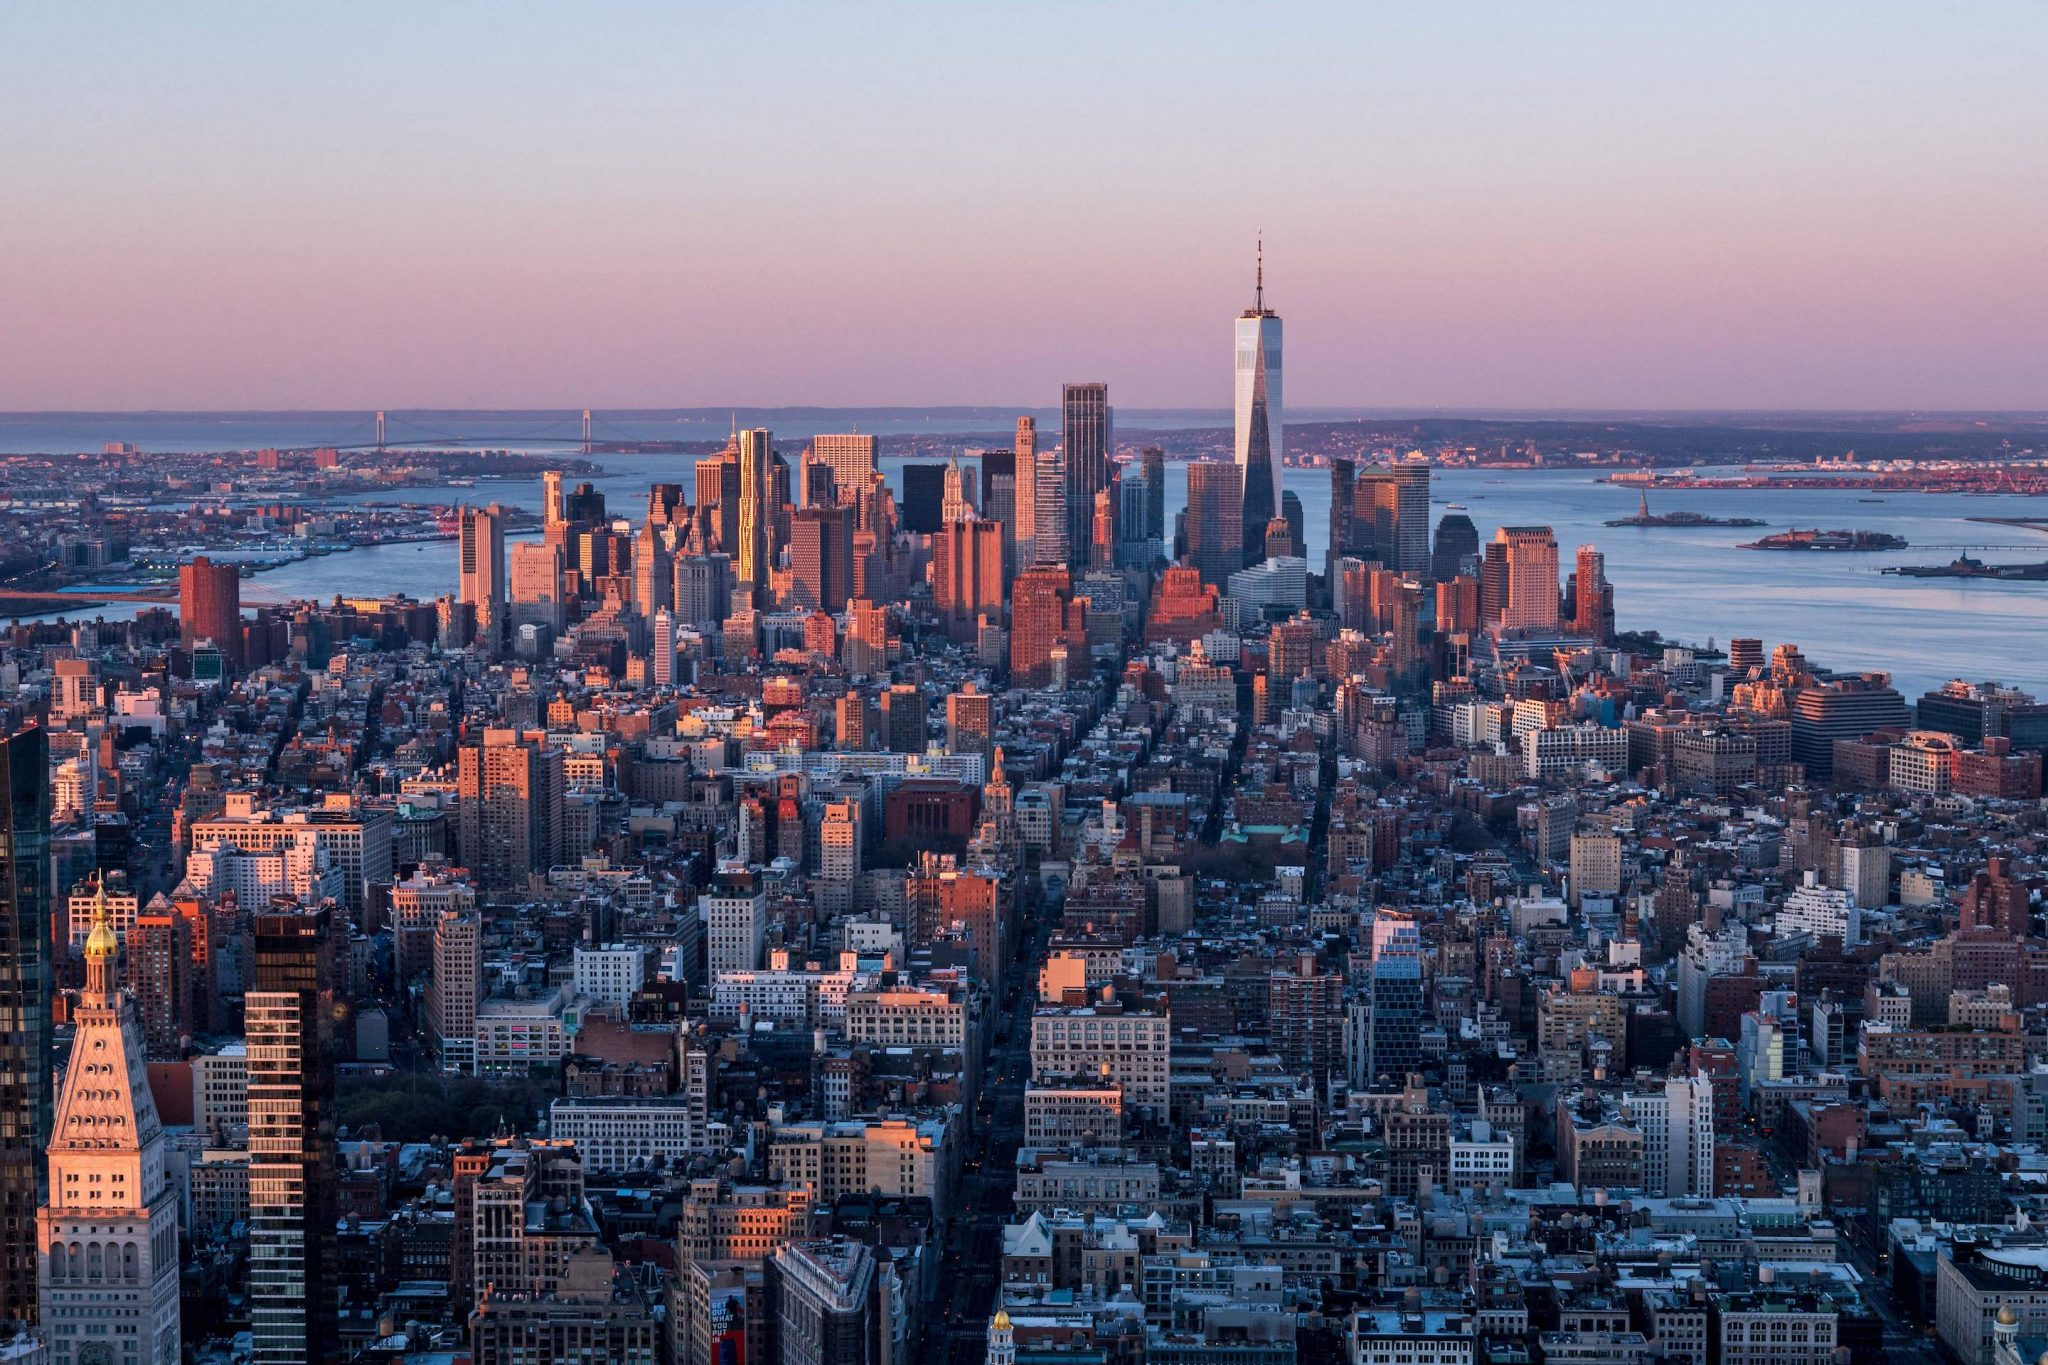
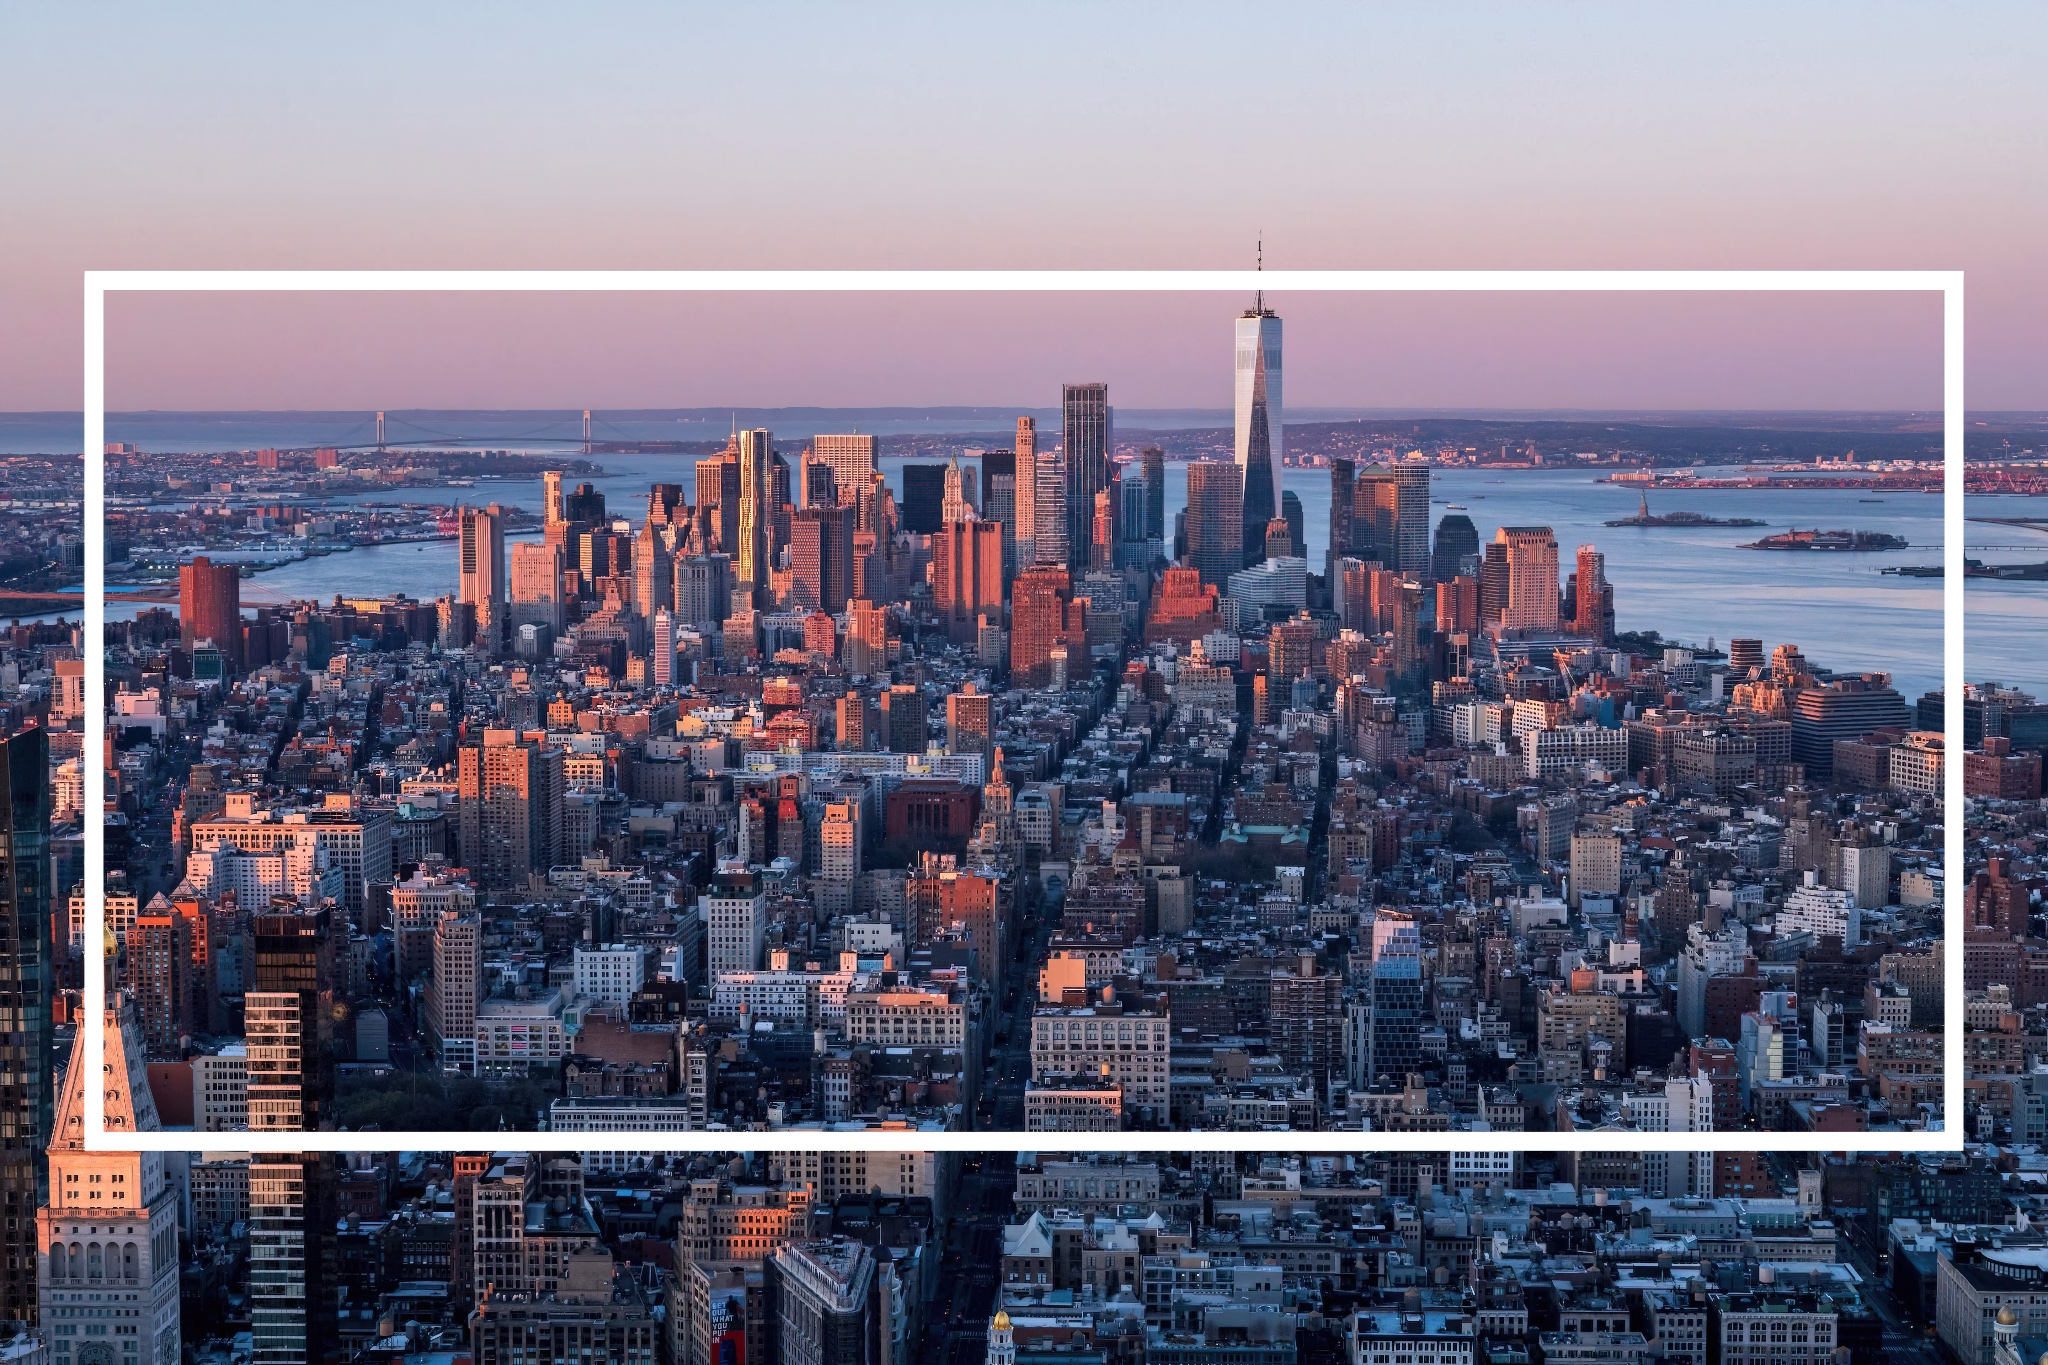
Optimize hero image resolution and sizing

diff --git a/app/(marketing)/sponsors/page.tsx b/app/(marketing)/sponsors/page.tsx
@@ -117,13 +117,28 @@ export default async function SponsorsPage() {
                       <span className="sr-only">Feature</span>
                     </th>
                     <th className="border-l border-accent/20 bg-accent/10 px-4 py-6 text-center" scope="col">
-                      <span className="block text-lg font-black text-accent">◆ Platinum</span>
+                      <span className="inline-flex items-center justify-center gap-1.5 text-lg font-black text-accent">
+                        <svg className="h-4 w-4 fill-current shrink-0" viewBox="0 0 24 24" aria-hidden="true">
+                          <path d="M12 2L2 12l10 10 10-10L12 2z" />
+                        </svg>
+                        Platinum
+                      </span>
                     </th>
                     <th className="px-4 py-6 text-center" scope="col">
-                      <span className="block text-lg font-black text-warning">● Gold</span>
+                      <span className="inline-flex items-center justify-center gap-1.5 text-lg font-black text-warning">
+                        <svg className="h-3.5 w-3.5 fill-current shrink-0" viewBox="0 0 24 24" aria-hidden="true">
+                          <circle cx="12" cy="12" r="10" />
+                        </svg>
+                        Gold
+                      </span>
                     </th>
                     <th className="px-4 py-6 text-center" scope="col">
-                      <span className="block text-lg font-black text-foreground-muted">▲ Community</span>
+                      <span className="inline-flex items-center justify-center gap-1.5 text-lg font-black text-foreground-muted">
+                        <svg className="h-4 w-4 fill-current shrink-0" viewBox="0 0 24 24" aria-hidden="true">
+                          <path d="M12 3L2 21h20L12 3z" />
+                        </svg>
+                        Community
+                      </span>
                     </th>
                   </tr>
                 </thead>

diff --git a/app/components/sections/Hero.tsx b/app/components/sections/Hero.tsx
@@ -27,7 +27,7 @@ export default function Hero({
   backgroundImage,
   size = 'medium',
   primaryCTA,
-  parallax = true,
+  parallax = false,
 }: HeroProps) {
   const isLarge = size === 'large';
   const prefersReducedMotion = usePrefersReducedMotion();
@@ -97,8 +97,7 @@ export default function Hero({
           alt=""
           fill
           priority
-          quality={75}
-          sizes="100vw"
+          unoptimized
           className="object-cover object-center"
         />
         {/* Darkens the top of the image so the transparent header's white nav text
@@ -155,7 +154,7 @@ export default function Hero({
                   initial={prefersReducedMotion ? false : { opacity: 0, y: 10 }}
                   animate={{ opacity: 1, y: 0 }}
                   transition={{ duration: DUR.base, delay: 0.1, ease: EASE_REVEAL }}
-                  className="text-foreground-secondary font-medium max-w-xl mx-auto leading-relaxed mt-6 text-sm sm:text-base md:text-lg drop-shadow-[0_1.5px_2px_rgba(0,0,0,0.4)]"
+                  className="text-foreground-secondary font-medium max-w-3xl mx-auto leading-relaxed mt-6 text-sm sm:text-base md:text-lg drop-shadow-[0_1.5px_2px_rgba(0,0,0,0.4)]"
                 >
                   {subtitle}
                 </motion.p>
@@ -203,7 +202,7 @@ export default function Hero({
                 initial={prefersReducedMotion ? false : { opacity: 0, y: 10 }}
                 animate={{ opacity: 1, y: 0 }}
                 transition={{ duration: DUR.base, delay: 0.1, ease: EASE_REVEAL }}
-                className="text-foreground/90 font-medium max-w-xl mx-auto leading-relaxed mt-4 text-xs sm:text-sm"
+                className="text-foreground/90 font-medium max-w-3xl mx-auto leading-relaxed mt-4 text-xs sm:text-sm"
               >
                 {subtitle}
               </motion.p>